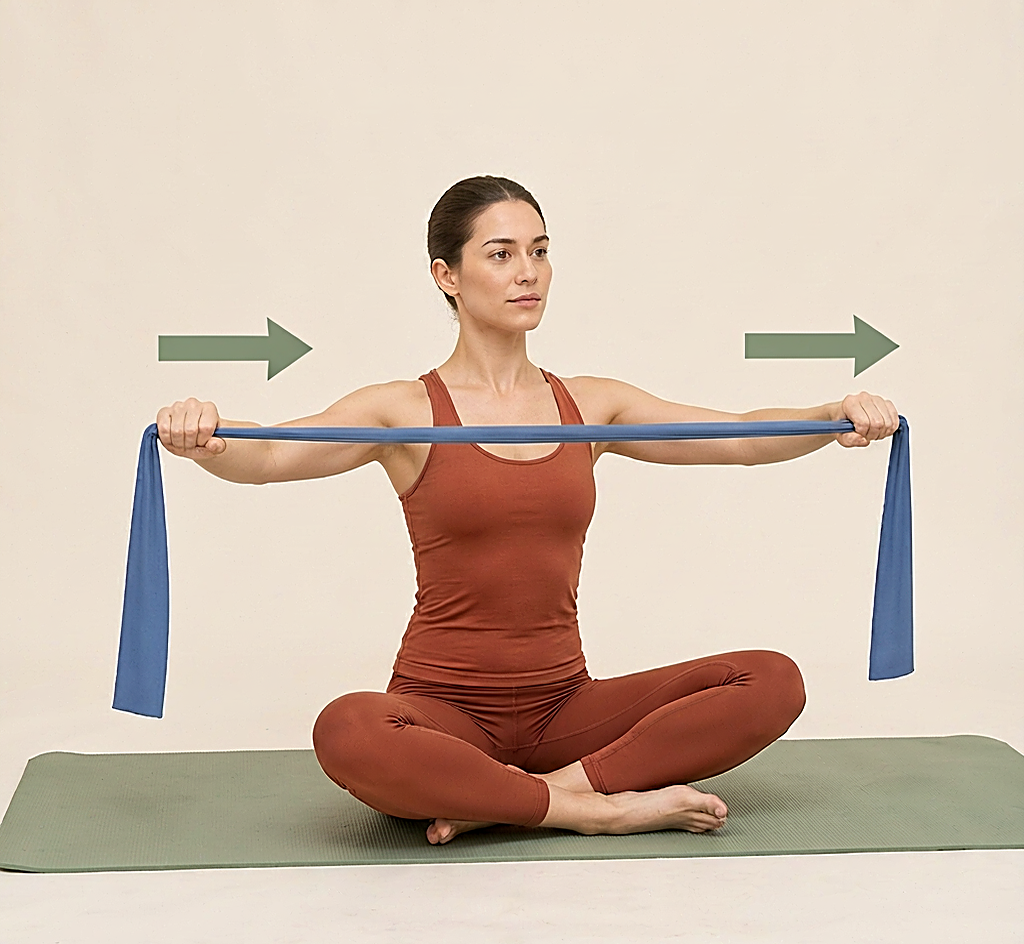
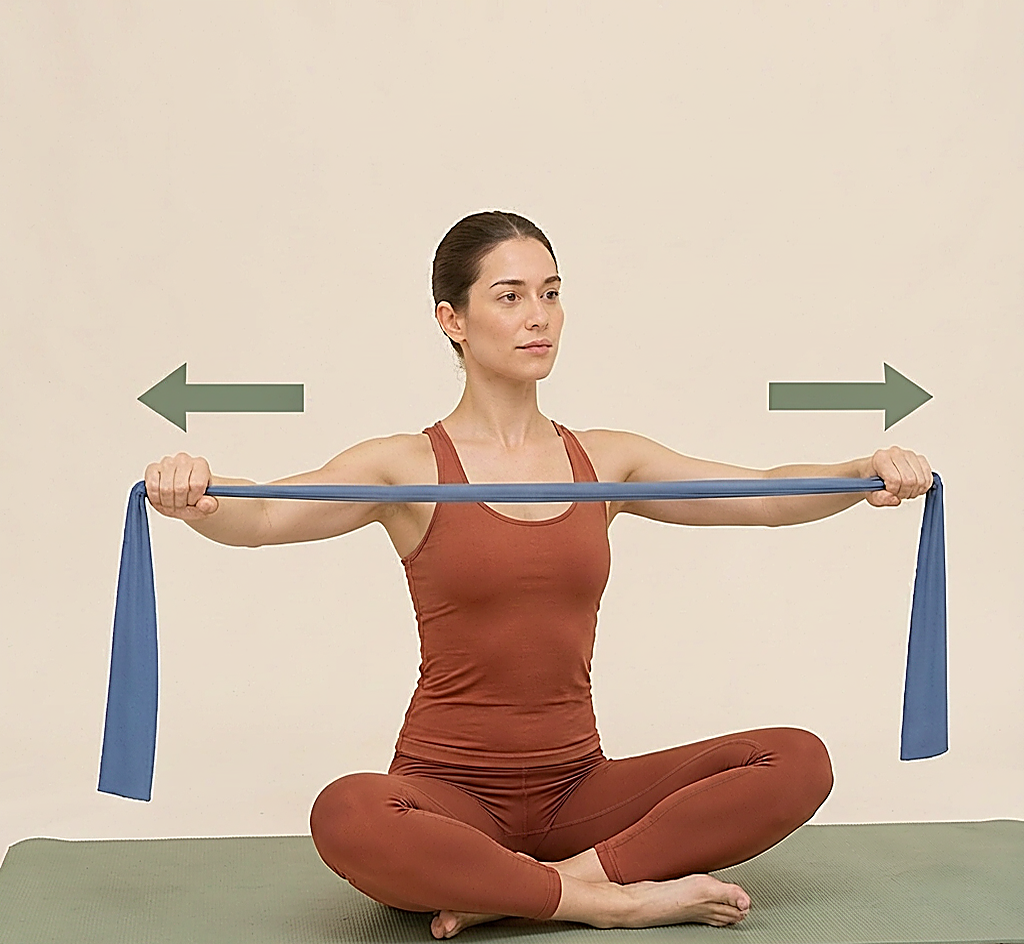
Fix Resistance Band Chest Expansion arrows v3

diff --git a/src/App.tsx b/src/App.tsx
@@ -158,7 +158,7 @@ const innerThighSqueezeExercises: Exercise[] = [
 ]
 const smallApparatusExtraExercises: Exercise[] = [
   { id: 238, kind: '小器械', en: 'Mini Ball Adductor Squeeze', zh: '小球内收夹压', image: assetUrl('assets/small-apparatus-extra/mini-ball-adductor-squeeze.png?v=2') },
-  { id: 239, kind: '小器械', en: 'Resistance Band Chest Expansion', zh: '弹力带胸部扩展', image: assetUrl('assets/small-apparatus-extra/resistance-band-chest-expansion.png?v=2') },
+  { id: 239, kind: '小器械', en: 'Resistance Band Chest Expansion', zh: '弹力带胸部扩展', image: assetUrl('assets/small-apparatus-extra/resistance-band-chest-expansion.png?v=3') },
   { id: 240, kind: '小器械', en: 'Foam Roller Dead Bug', zh: '泡沫轴死虫式', image: assetUrl('assets/small-apparatus-extra/foam-roller-dead-bug.png?v=2') },
   { id: 241, kind: '小器械', en: 'Mini Ball Hundred', zh: '小球百次呼吸', image: assetUrl('assets/small-apparatus-extra/mini-ball-hundred.png?v=2') },
 ]
